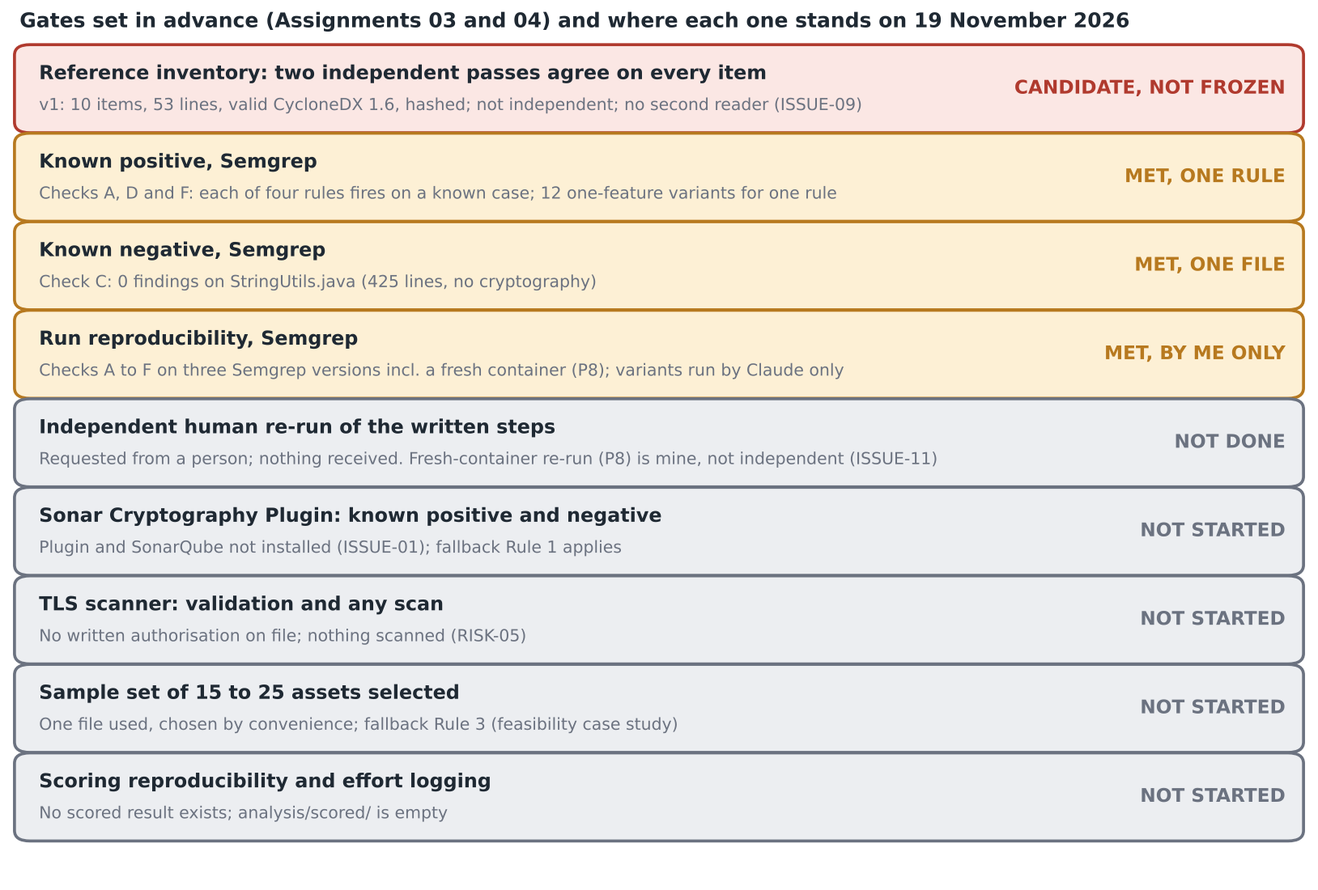
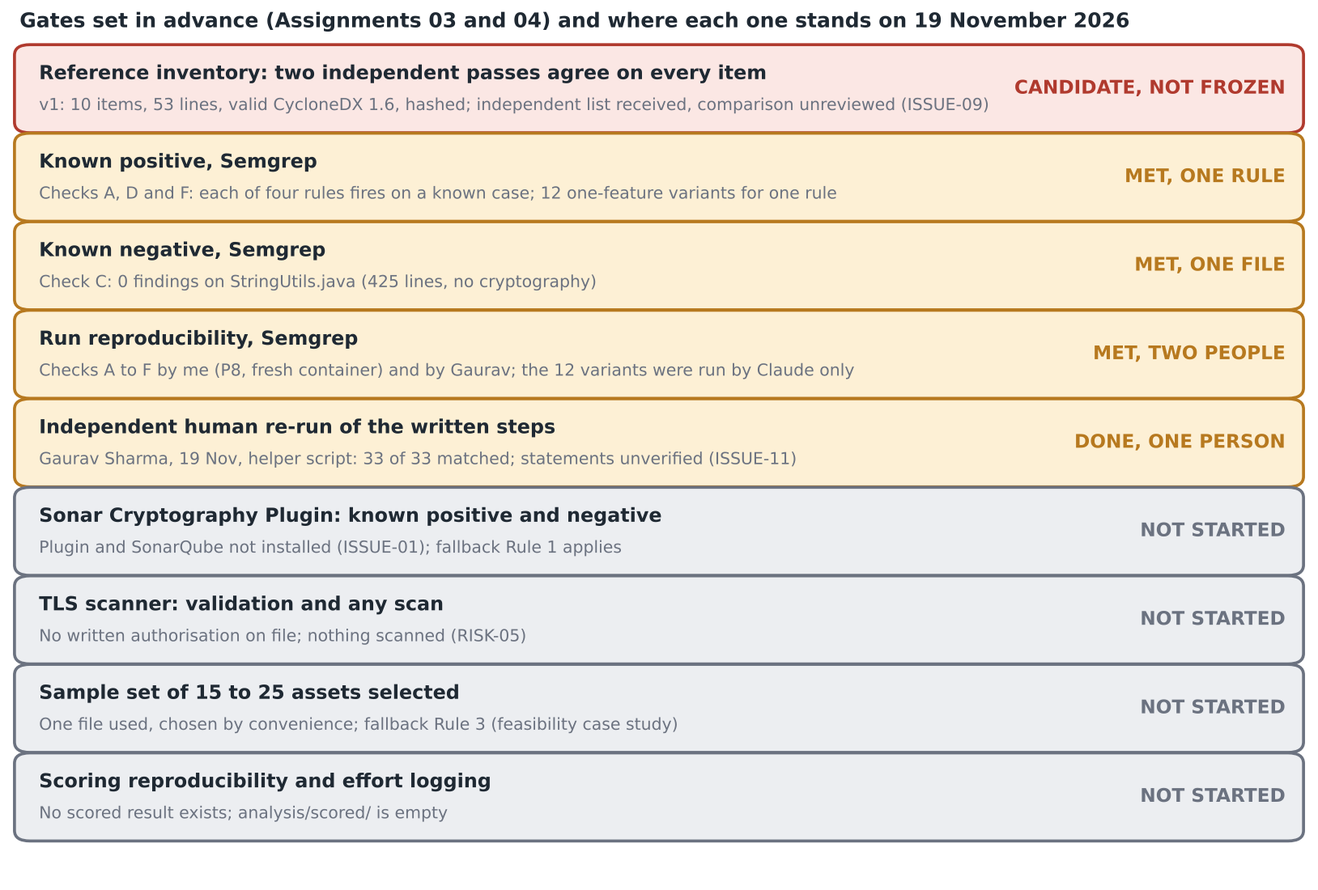
Assignment 12: reviewer run reflected in issue log, register, freeze record, gate figure, note, outline and script
Claude-Session: https://claude.ai/code/session_01UCMwYboPFy5TRtJRC9YzTZ

Changed region(s): [[0.0, 0.4018, 1.0, 0.5564], [0.3686, 0.0927, 0.7371, 0.1236], [0.8292, 0.3709, 0.9828, 0.4018]]

diff --git a/analysis/results/figures_a12_source.py b/analysis/results/figures_a12_source.py
@@ -21,15 +21,15 @@ def box(ax, x, y, w, h, text, kind, fs=7.6, bold=False):
 # ---------- Figure: gate status ----------
 gates = [
  ('Reference inventory: two independent passes agree on every item', 'not', 'CANDIDATE, NOT FROZEN',
-  'v1: 10 items, 53 lines, valid CycloneDX 1.6, hashed; not independent; no second reader (ISSUE-09)'),
+  'v1: 10 items, 53 lines, valid CycloneDX 1.6, hashed; independent list received, comparison unreviewed (ISSUE-09)'),
  ('Known positive, Semgrep', 'part', 'MET, ONE RULE',
   'Checks A, D and F: each of four rules fires on a known case; 12 one-feature variants for one rule'),
  ('Known negative, Semgrep', 'part', 'MET, ONE FILE',
   'Check C: 0 findings on StringUtils.java (425 lines, no cryptography)'),
- ('Run reproducibility, Semgrep', 'part', 'MET, BY ME ONLY',
-  'Checks A to F on three Semgrep versions incl. a fresh container (P8); variants run by Claude only'),
- ('Independent human re-run of the written steps', 'todo', 'NOT DONE',
-  'Requested from a person; nothing received. Fresh-container re-run (P8) is mine, not independent (ISSUE-11)'),
+ ('Run reproducibility, Semgrep', 'part', 'MET, TWO PEOPLE',
+  'Checks A to F by me (P8, fresh container) and by Gaurav; the 12 variants were run by Claude only'),
+ ('Independent human re-run of the written steps', 'part', 'DONE, ONE PERSON',
+  'Gaurav Sharma, 19 Nov, helper script: 33 of 33 matched; statements unverified (ISSUE-11)'),
  ('Sonar Cryptography Plugin: known positive and negative', 'todo', 'NOT STARTED',
   'Plugin and SonarQube not installed (ISSUE-01); fallback Rule 1 applies'),
  ('TLS scanner: validation and any scan', 'todo', 'NOT STARTED',

diff --git a/docs/RELEASE_MANIFEST.md b/docs/RELEASE_MANIFEST.md
@@ -70,7 +70,7 @@ Format of each line: path, SHA-256, role.
[1 lines of base64/hex data omitted]
   Claims register v3: statuses added, L2 corrected
 - `analysis/results/claims_register_2026-11-19.md`  
[2 lines of base64/hex data omitted]
   Claims register version 4 (K4 and K9 revised; K4 still provisional)
 - `analysis/results/figure_10_k4_variants_2026-11-19.png`  
[1 lines of base64/hex data omitted]
@@ -97,7 +97,7 @@ Format of each line: path, SHA-256, role.
[1 lines of base64/hex data omitted]
   Figure: how the zero on Md5Crypt.java is classified (K8, K9)
 - `analysis/results/figure_7_gate_status_2026-11-19.png`  
[2 lines of base64/hex data omitted]
   Figure 1 of the Assignment 12 thesis (gate status); drawn by Claude
 - `analysis/results/figure_8_claim_record_map_2026-11-19.png`  
[1 lines of base64/hex data omitted]
@@ -106,7 +106,7 @@ Format of each line: path, SHA-256, role.
[1 lines of base64/hex data omitted]
   Figure 2 of the Assignment 12 thesis (classification of the zero); drawn by Claude
 - `analysis/results/figures_a12_source.py`  
[2 lines of base64/hex data omitted]
   Script that draws figures 1, 2, 4 and 5 of the Assignment 12 thesis; written by Claude
 - `analysis/results/figures_thesis_source.py`  
[1 lines of base64/hex data omitted]
@@ -211,7 +211,7 @@ Format of each line: path, SHA-256, role.
[1 lines of base64/hex data omitted]
   Synthetic 14-line control (written by Claude); not a sample
 - `docs/AI_VALIDATION_LEDGER.md`  
[2 lines of base64/hex data omitted]
   What AI tools proposed, who checked it and how
 - `docs/AUDIT_RECORD_A10.md`  
[1 lines of base64/hex data omitted]
@@ -223,7 +223,7 @@ Format of each line: path, SHA-256, role.
[1 lines of base64/hex data omitted]
   Corrections with commit hashes; pointer to earlier text
 - `docs/CROSSCHECK_A12.md`  
[2 lines of base64/hex data omitted]
   Cross-check of numbers, claims and figures across thesis, deck and evidence (Claude, not yet repeated by me)
 - `docs/ENVIRONMENT.md`  
[1 lines of base64/hex data omitted]
@@ -232,16 +232,16 @@ Format of each line: path, SHA-256, role.
[1 lines of base64/hex data omitted]
   Record of the independent run and source pass: what was received, statements, discrepancies, status
 - `docs/INDEPENDENT_RUN_PACKAGE.md`  
[2 lines of base64/hex data omitted]
   Request text and record template for an independent human run (not yet done)
 - `docs/INDEPENDENT_SOURCE_PASS_PACKAGE.md`  
[2 lines of base64/hex data omitted]
   Request and record template for an independent source pass (not yet done)
 - `docs/INVENTORY_FREEZE_RECORD.md`  
[2 lines of base64/hex data omitted]
   Unit decision, candidate hash, why not frozen, what freezing requires
 - `docs/ISSUE_LOG.md`  
[2 lines of base64/hex data omitted]
   Issues and risks
 - `docs/K4_RULE_ANALYSIS_2026-11-19.md`  
[1 lines of base64/hex data omitted]
@@ -256,13 +256,13 @@ Format of each line: path, SHA-256, role.
[1 lines of base64/hex data omitted]
   Feedback item, change, location, unresolved issue
 - `docs/RESPONSE_NOTE_A12.md`  
[2 lines of base64/hex data omitted]
   Response and remaining-work note, text version
 - `docs/SOURCE_LEDGER.md`  
[1 lines of base64/hex data omitted]
   Source of every result, figure, label, interpretation and citation, with verification status
 - `docs/SPEAKING_OUTLINE_A12.md`  
[2 lines of base64/hex data omitted]
   Speaking outline for the deck
 - `docs/TAG_AND_MANIFEST.md`  
[1 lines of base64/hex data omitted]
@@ -271,7 +271,7 @@ Format of each line: path, SHA-256, role.
[1 lines of base64/hex data omitted]
   Literature claims linked to source, AI step and my verification (not yet done)
 - `docs/WALKTHROUGH_SCRIPT_A12.md`  
[2 lines of base64/hex data omitted]
   Script for the recorded walkthrough
 - `docs/independent_run/SOP_FRIEND.md`  
[1 lines of base64/hex data omitted]
@@ -304,7 +304,7 @@ Format of each line: path, SHA-256, role.
[1 lines of base64/hex data omitted]
   Dated working entry
 - `journal/2026-11-19.md`  
[2 lines of base64/hex data omitted]
   Dated journal entry for Assignment 12
 - `journal/README.md`  
[1 lines of base64/hex data omitted]

diff --git a/docs/RESPONSE_NOTE_A12.md b/docs/RESPONSE_NOTE_A12.md
@@ -10,23 +10,23 @@ A near-final thesis, a research deck with speaking outline, a final-evidence app
 
 Full entries, with change, evidence location and what is unresolved, are in `docs/RESPONSE_LOG.md` (H1 to H5).
 
-- **H1, reference inventory: partly completed.** I decided that the operation is the primary unit. The 53 agreed lines are now a 10-item candidate inventory with asset or operation, algorithm, file, lines and a reason for each item; it validates against CycloneDX 1.6 (with a failing negative control) and is hashed (SHA-256 fa216520…f9cc). It is not frozen, because no independent person has read the source. Claude wrote the grouping and I have not yet reviewed it.
+- **H1, reference inventory: partly completed.** I decided that the operation is the primary unit. The 53 agreed lines are now a 10-item candidate inventory with asset or operation, algorithm, file, lines and a reason for each item; it validates against CycloneDX 1.6 (with a failing negative control) and is hashed (SHA-256 fa216520…f9cc). It is not frozen. The same helper wrote an independent list of operations from the source (`data/reference_inventory/independent_pass_REVIEWER_2026-11-19.txt`); a draft comparison by operation shows most items agree and that his list has wrapper-level salt and prefix operations the candidate lacks. His line numbers do not match the pinned file. Claude wrote the grouping and the draft comparison; I have not yet reviewed either.
 - **H2, zero findings: partly completed.** The pinned rule was read and its matching conditions written down. Twelve one-feature variants, with expected outcomes committed first, were run once: 12 of 12 matched the prediction, including the unprefixed call (V02) and a fully qualified receiver (V03). K4 now has three separate conclusions in the register and thesis and stays provisional. Claude wrote and ran this; I still need to read the rule myself and re-run the variants.
-- **H3, independent reproducibility: pending.** My Docker re-run is described as repeatability, as you said. A person has agreed to follow `docs/REPRODUCE.md`; I am sending the package this week. The original transcript of my 14 November run will be attached.
+- **H3, independent reproducibility: done by one person, with limits.** On 19 November Gaurav Sharma ran checks A to F in an Ubuntu container (Semgrep 1.186.0) and all 33 comparisons matched the expected values (`analysis/raw/semgrep_checks_A_to_F_REVIEWER_2026-11-19.txt`). Limits: he used a helper script that wraps the commands in `docs/REPRODUCE.md`; his statements that he used no AI tool and had no help are relayed by me and unverified; and his run output is time-stamped three minutes before the reported end of his source pass. My own Docker re-run is still described as repeatability. The original transcript of my 14 November run is to be attached.
 - **H4, align findings with contribution: completed for the framing.** The question, contribution and conclusion are narrowed to a Semgrep feasibility study. The thesis states how true positives, false positives, false negatives and effort by phase would be counted once an inventory is frozen, and that undefined measures would be “not estimable”. No such figure is calculated. Sonar and TLS were not started and I did not invent results.
 - **H5, human verification of AI-supported material: pending.** The verification matrix links each literature claim to its source, the AI step and my check. Every source is still marked † or ‡; I have not read them.
 
 ## Changes in this version
 
-Chapter 1 (framing), §3.3 (unit, candidate, schema, freeze rule), §3.4 to §3.6 (new runs, register 4), §4.3 (twelve variants, three conclusions), §4.4, §5.2, §6 and §7.3 (dated work), the abstract, Appendix A (stable evidence identifiers) and Appendix B (AI log). Only K4 and K9 and limits L2, L4, L5, L8 and L9 changed in the register. Results audited again: the twelve variants and the inventory; earlier results were not re-audited.
+Chapter 1 (framing), §3.3 (unit, candidate, schema, freeze rule), §3.4 to §3.6 (new runs, register 4), §4.3 (twelve variants, three conclusions), §4.4, §5.2, §6 and §7.3 (dated work), the abstract, Appendix A (stable evidence identifiers) and Appendix B (AI log). Only K4 and K9 and limits L2, L4, L5, L8 and L9 changed in the register. Results audited again: the twelve variants, the inventory and the reviewer run; earlier results were not re-audited.
 
 ## Remaining work, with dates
 
-- **20 November:** read the rule file and re-run the twelve variants in my container; file the output as a `PERSONAL` record; update K4. Email you about the unit, the freeze and the framing. Send the independent-run and source-pass packages.
-- **21 November:** review the 10 inventory items; read Näther and Hirsch, Ami et al. (confirm year, authors, DOI) and Amann et al.
-- **22 November:** collect the independent run and source pass if they arrive; compare them item by item; only then freeze and hash the inventory.
+- **20 November:** read the rule file and re-run the twelve variants in my container; file the output as a `PERSONAL` record; update K4. Email you about the unit, the freeze and the framing. Ask Gaurav for the placeholder initials and the hesitation notes he did not send.
+- **21 November:** review the 10 inventory items and the draft comparison with the independent list; decide whether wrapper-level salt and prefix operations belong in the inventory; read Näther and Hirsch, Ami et al. (confirm year, authors, DOI) and Amann et al.
+- **22 November:** if the candidate changes, validate it again; then freeze and hash the inventory.
 - **Not started:** Sonar plugin, TLS scanner, sample set, scoring. If the feasibility framing is not accepted, each needs its own plan.
 
 ## Unresolved issue
 
-Independence. Everything run so far was run by me or by Claude, and the inventory is not independent. The thesis says so wherever a claim depends on it.
+Independence is limited. One person other than me has now reproduced checks A to F and written an independent list of operations, but his statements are relayed and unverified, his line numbers do not match the file, and the variants and the inventory grouping were written and run by Claude. The thesis says so wherever a claim depends on it.

diff --git a/docs/ISSUE_LOG.md b/docs/ISSUE_LOG.md
@@ -14,10 +14,11 @@ CryptoBench issue and risk log. Updated 22 October 2026 (Hard Stop 3, thesis ver
 - ISSUE-08 (new, 22 October), positive control of the wrong code shape. The control passes on the chained MD5 form and Md5Crypt.java uses the variable form, so a passing control did not warn about the miss. Severity: medium to high. State: closed for the pilot file on 4 November 2026, with the limits in the claims register. A same-shape control (`data/test_material/same_shape_control/`) was run by Claude (R3, `analysis/raw/semgrep_samshape_control_REFERENCE_2026-11-04.txt`): the rule finds the chained form (line 6) and not the variable form (lines 10-12). That explains the zero for this one rule. I repeated the control on my MacBook (P6, Semgrep 1.99.0) with the same result. On the same day I ran the other three rules one at a time (P7): each fires on its own test file and finds nothing in Md5Crypt.java, which has no call they target. Still open: other forms of those calls were not tested, and the control is one pair of shapes. Protocol change 2 still applies.
 - ISSUE-09 (new, 22 October), reference list not independent. Severity: high. State: narrowed on 4 November 2026, not closed. Pass 1 (31 October) was not independent of the list Claude drafted. Pass 2 (4 November, after reading the numbered file, with help listed in `own_pass_agreed.md`) and an agreed list of 53 lines exist (`data/reference_inventory/own_pass/`); the comparison with the provisional list is in `own_pass_vs_claude.md`. The passes disagreed on 39 lines and the agreed list applies my three rules to those lines, so it is not the full agreement of two independent passes that the freeze rule asks for. Closed only if Dr. Shaalan accepts the reconciled list as frozen, or after a further independent pass.
 - ISSUE-10 (new, 22 October), hand-editing of the inventory template failed twice before passing (test case 2). Severity: low to medium. State: mitigated by protocol change 5. Not checked against the CycloneDX schema, so not fully closed.
-- ISSUE-11 (new, 14 November), no independent human run of the reproduction steps. Severity: medium to high. State: open. Only a fresh AI agent (low independence), my own self-checks and, since 14 November, my own fresh-environment re-run in Docker (P8, `analysis/raw/semgrep_checks_A_to_F_PERSONAL_FRESHENV_2026-11-14.txt`; all results matched, Semgrep 1.185.0) exist. P8 is not independent (same person, commands written by Claude) and does not close the issue. Request and record template: `docs/INDEPENDENT_RUN_PACKAGE.md`. Closed only when a person other than me has run the steps and the unedited record is in `analysis/raw/`.
+- ISSUE-11 (new, 14 November), independent human run of the reproduction steps. Severity: medium. State: update 19 November evening: a person other than me (Gaurav Sharma) ran checks A to F with the helper script; all 33 comparisons matched (`analysis/raw/semgrep_checks_A_to_F_REVIEWER_2026-11-19.txt`, notes in `docs/INDEPENDENT_REVIEW_RECORD_2026-11-19.md`). Limits: a wrapper script was used, not the document by hand; the runner field was a placeholder; his statements (no AI, no help) are relayed by me and unverified; the run output is time-stamped three minutes before the reported end of his source pass. Earlier state, kept for the record: open. Only a fresh AI agent (low independence), my own self-checks and, since 14 November, my own fresh-environment re-run in Docker (P8, `analysis/raw/semgrep_checks_A_to_F_PERSONAL_FRESHENV_2026-11-14.txt`; all results matched, Semgrep 1.185.0) exist. P8 is not independent (same person, commands written by Claude) and does not close the issue. Request and record template: `docs/INDEPENDENT_RUN_PACKAGE.md`. Closed only when a person other than me has run the steps and the unedited record is in `analysis/raw/`.
 - ISSUE-12 (new, 14 November), citations not yet read by me. Severity: medium. State: partly mitigated. Claude checked every citation used in the thesis draft against source pages (`docs/CITATION_CHECK_2026-11-14.md`) and four statements in my earlier work could not be confirmed and are not used. I have not opened the papers. The year, authors and DOI of Ami et al. (TOPS) are unconfirmed.
 - ISSUE-13 (new, 14 November), branch tip drifted from the tagged manifest. Severity: medium. State: closed on 14 November. Nine files edited after `a10-rc6` were restored to the tagged text; rules for the tag and manifest relationship are in `docs/TAG_AND_MANIFEST.md`.
 - ISSUE-14 (new, 19 November), the K4 rule analysis and variant results are not yet checked by me. Severity: medium. State: open. Claude analysed the rule and ran twelve variants (R4); I have not read the rule file or re-run the variants (`docs/K4_RULE_ANALYSIS_2026-11-19.md`, checklist). K4 stays provisional until I do. Closed when my own reading and my own `PERSONAL` re-run are on record.
+- ISSUE-09 update (19 November evening): an independent source-pass list was received (Gaurav Sharma, `data/reference_inventory/independent_pass_REVIEWER_2026-11-19.txt`); his line numbers do not match the pinned file; a draft comparison by operation exists (`independent_pass_comparison_2026-11-19.md`) and I have not reviewed it. The wrapper-level salt and prefix operations in his list are not in the candidate; I must decide the scope. ISSUE-09 stays narrowed, not closed.
 - ISSUE-09 update (19 November): unit of measurement decided (operation primary, lines supporting). A 10-item candidate inventory exists, validated against CycloneDX 1.6 and hashed, but it is not frozen, not independent, and its grouping is not yet reviewed by me (`docs/INVENTORY_FREEZE_RECORD.md`). ISSUE-09 stays narrowed, not closed; it closes when an independent source pass is compared and the final file is hashed.
 
 ## Risks carried forward

diff --git a/docs/WALKTHROUGH_SCRIPT_A12.md b/docs/WALKTHROUGH_SCRIPT_A12.md
@@ -4,7 +4,7 @@ Target length 8 minutes (suggested range 6 to 10). Read in your own words. Scree
 
 **0:00 to 0:45. What this package is.** “This is Assignment 12 for CryptoBench. It is a feasibility pilot. Only Semgrep ran, on one file. The comparison with the Sonar plugin and a TLS scanner has not been run, and the thesis says that in the abstract.” Show the title page and abstract.
 
-**0:45 to 2:15. What changed since the Assignment 11 feedback.** Open `docs/RESPONSE_LOG.md` entries H1 to H5. “Dr. Shaalan gave five priorities. For each I record the change, where the evidence is and what is unresolved.” Say the dispositions: H1 partly completed, the inventory is a candidate and not frozen; H2 partly completed, K4 stays provisional; H3, the independent run is pending; H4, the framing is narrowed, subject to his agreement; H5, my reading of the sources is pending.
+**0:45 to 2:15. What changed since the Assignment 11 feedback.** Open `docs/RESPONSE_LOG.md` entries H1 to H5. “Dr. Shaalan gave five priorities. For each I record the change, where the evidence is and what is unresolved.” Say the dispositions: H1 partly completed, the inventory is a candidate and not frozen; H2 partly completed, K4 stays provisional; H3, one person other than me reproduced checks A to F (33 of 33 matched), with limits I will name; H4, the framing is narrowed, subject to his agreement; H5, my reading of the sources is pending.
 
 **2:15 to 4:15. Claim to thesis to evidence.** Take K4. Open thesis §4.3, then Figure 3, then evidence EV-17 (raw output) and EV-19 (expected outcomes committed before the run, commit 45f6180). “Twelve variants, twelve outcomes as predicted. The rule needs the chained call; the Md5Crypt calls are stored in a variable.” Then name the three conclusions and say the third is not established because the inventory is not frozen. Open `docs/K4_RULE_ANALYSIS_2026-11-19.md` and say that Claude wrote it and ran the variants and that I have not yet read the rule or re-run them.
 
@@ -12,6 +12,8 @@ Target length 8 minutes (suggested range 6 to 10). Read in your own words. Scree
 
 **5:15 to 6:30. The deck narrative.** Show the deck slides 2 to 9 quickly, naming the problem, the gap, the questions, the method, the evidence and the contribution. Say that the deck makes no claim stronger than the thesis, and show `docs/CROSSCHECK_A12.md`.
 
-**6:30 to 7:30. Remaining work.** Read the list in the response note: my own reading of the rule and re-run of the variants (20 November), review of the grouping (21 November), the independent run and source pass (requested, due 22 November), reading the papers, agreeing the framing with Dr. Shaalan, freezing only after the independent pass.
+**6:30 to 7:30. Remaining work.** Read the list in the response note: my own reading of the rule and re-run of the variants (20 November), review of the grouping (21 November), the points to clear with Gaurav (placeholder initials, the order of his two parts, his missing hesitation notes), reading the papers, agreeing the framing with Dr. Shaalan, freezing only after the independent pass.
+
+****Add to 4:15 to 5:15 (the inventory).** “An independent list of operations came back from Gaurav. His operations mostly match the candidate items. His list has wrapper-level salt and prefix steps the candidate lacks, and his line numbers do not match the file, so I compare by operation only. I have not reviewed the draft comparison.” Open `data/reference_inventory/independent_pass_comparison_2026-11-19.md` and `docs/INDEPENDENT_REVIEW_RECORD_2026-11-19.md`.
 
 **7:30 to 8:00. AI.** “Claude drafted text and figures, wrote and ran the variants and grouped the inventory. I decided the unit, no freeze and the framing. Appendix B lists each step and what I have not yet verified.”

diff --git a/docs/SPEAKING_OUTLINE_A12.md b/docs/SPEAKING_OUTLINE_A12.md
@@ -7,11 +7,11 @@ Deck: eleven slides, about nine to ten minutes. The course presentation time was
 3. **Literature and gap (1:00).** Policy documents assert the need; the format exists; the two tool papers are preprints with their own benchmarks; a score depends on the counting unit. The gap is a comparison of free methods against one independent key. Sources not yet read by me.
 4. **Questions (0:45).** RQ1 answered for one file, RQ2 in part, RQ3 and RQ4 not answered. The feasibility framing awaits Dr. Shaalan’s agreement.
 5. **Method (1:00).** Designed for three tools, executed for one. Pinned inputs. Checks A to F. Twelve variants.
-6. **Evidence: the procedure repeats (1:00).** 1, 0, 0, 1 across checks A to D; four Semgrep versions; all runs by me or Claude; no independent run.
+6. **Evidence: the procedure repeats (1:00).** 1, 0, 0, 1 across checks A to D; four Semgrep versions; runs by me, by Claude, and by one other person (Gaurav, 19 November, helper script, 33 of 33 matched; his statements relayed, unverified).
 7. **Evidence: the zero (1:30).** Three conclusions. The rule needs the chained form; twelve variants agree. Conclusion 3 is not established. K4 stays provisional until I read the rule and re-run the variants.
-8. **Evidence: the inventory (1:00).** 60 and 73 lines, 39 disagreements, 53 agreed, 10 operation items, valid CycloneDX 1.6, hashed, not frozen, grouping not yet reviewed by me.
+8. **Evidence: the inventory (1:00).** 60 and 73 lines, 39 disagreements, 53 agreed, 10 operation items, valid CycloneDX 1.6, hashed, not frozen. An independent list of operations has arrived; the draft comparison is not yet reviewed by me, and the helper’s line numbers do not match the file.
 9. **Contribution (0:45).** A bounded method: the three-way reading, shape-matched controls, the unit effect, and the trail from claim to record.
-10. **Limits and remaining work (0:45).** One file, four rules, no independent run, Sonar and TLS not started; dated next steps.
+10. **Limits and remaining work (0:45).** One file, four rules, one independent helper with unverified statements, Sonar and TLS not started; dated next steps.
 11. **AI use (0:30).** What Claude did, what I decided, what I have not yet checked.
 
 Likely questions and honest answers: *Why not run Sonar or TLS?* Not installed, no authorised target. *Is K4 established?* No, provisional. *Why the operation as unit?* The feedback pointed to assets or operations, and a line unit is not comparable with asset-level tools; the choice is unconfirmed. *Who ran the variants?* Claude; I will re-run them.

diff --git a/docs/CROSSCHECK_A12.md b/docs/CROSSCHECK_A12.md
@@ -4,7 +4,7 @@ Date: 19 November 2026. Compared: the Assignment 12 thesis (near-final draft), t
 
 ## How evidence is identified
 
-Appendix A of the thesis gives every evidence file a stable identifier, EV-01 to EV-47. The deck and the response note use the same identifiers. An identifier names a file path in this repository, and the path does not change between versions. A file that changes content keeps its identifier and gets a new commit hash. The file list is fixed at the Assignment 12 record commit given in the thesis.
+Appendix A of the thesis gives every evidence file a stable identifier, EV-01 to EV-51. The deck and the response note use the same identifiers. An identifier names a file path in this repository, and the path does not change between versions. A file that changes content keeps its identifier and gets a new commit hash. The file list is fixed at the Assignment 12 record commit given in the thesis.
 
 ## Numbers and facts
 
@@ -15,6 +15,12 @@ Appendix A of the thesis gives every evidence file a stable identifier, EV-01 to
 - **Pinned inputs.** semgrep-rules commit 17e31e11…, commons-codec commit f13dd50f…, Md5Crypt.java 361 lines with SHA-256 fa779456…, StringUtils.java 425 lines. Thesis §3.4, deck slide 4, `docs/ENVIRONMENT.md`. Matches.
 - **Semgrep versions.** 1.99.0 (laptop), 1.181.0 (cloud container), 1.185.0 (my fresh container, 14 November), 1.186.0 (variants, 19 November). Thesis §3.4, deck slide 5. Matches.
 - **Literature numbers** (Crypsy F1 0.75, 0.86, 0.95; Cryptoscope 92% and 11 of 15). Thesis §2.3 and §2.4, deck slide 3. These match what Claude recorded in `docs/CITATION_CHECK_2026-11-14.md`. I have not read the papers, so this is consistency only, not verification (marks † and ‡).
+
+## Added after Gaurav’s run (19 November evening)
+
+- His output (EV-48) was compared with the expected values in `docs/REPRODUCE.md`: rules commit, seven hashes, counts for checks A to F and `getInstance` 0. All agree, and the thesis (§3.6, §4.1), the note, the outline and the deck state the same count (33 of 33 matched). His run is described the same way everywhere: one person other than me, helper script, statements unverified.
+- His source-pass list (EV-49) is cited as received, compared in draft by operation (EV-51), not reviewed by me. No document says the inventory is frozen or independent.
+- Figure 1 (gate status) was redrawn: the independent re-run row now reads “DONE, ONE PERSON”.
 
 ## Claims and status
 

diff --git a/analysis/results/claims_register_2026-11-19.md b/analysis/results/claims_register_2026-11-19.md
@@ -170,3 +170,7 @@ Figure files: `analysis/results/figure_1_proof_map.png` (claims to records), `an
 ## Pinned inputs
 
 Md5Crypt.java: apache/commons-codec commit f13dd50f566c318283c4138820b15d75c26a0217, 361 lines, sha256 fa779456b25d2d36a6c464e200e106c2fa8e94a45dc608844ceb04407ea90747. StringUtils.java: same commit, 425 lines, sha256 6c44ebc7424c69fd04b6f3df10332934a149e6901fd29e86d96df4176527a99a. Rules: semgrep/semgrep-rules commit 17e31e11ebac99fb7dfe1cd288f7a32151b6f3f9. Rule fixture sha256 bd22fdb5ef195e383ec69aa9dbf1d0fd8f6cb5d41aef3f725f1aba5e5aa05908. Inventory template sha256 a851ef3d6547c6e75f728144f2e8b9575b0853f4e63a4f9b65c693ad89a2139d. Semgrep 1.181.0 (container, Ubuntu 24.04.5, Python 3.13.16); Semgrep 1.99.0 (MacBook, macOS 15.7.9, Python 3.8.2). Control file SameShapeControl.java sha256 657e8eb1ac803fecb27dcbe7808781c5fd315a4981c7f33424645d25ae7c8539. Rule yaml use-of-md5-digest-utils.yaml sha256 a0614baf029418dd9b298713c3328f371faa1edb0eac7cc2c4a3a99ce1a220a5 (computed in the container).
+
+## Update, 19 November 2026 evening (no claim wording changed)
+
+A person other than me (Gaurav Sharma) ran checks A to F with the helper script on Semgrep 1.186.0 in an Ubuntu container; all 33 comparisons matched (`analysis/raw/semgrep_checks_A_to_F_REVIEWER_2026-11-19.txt`). This adds a second person to the reproduction of K1 and K3 to K9, with these limits: a wrapper script was used; his statements about no AI use and no help are relayed and unverified; the run was time-stamped before the end of his source pass. Limit L4 (no independent run) is narrowed accordingly. His independent source-pass list does not change K4's third conclusion: the inventory is still not frozen. Details: `docs/INDEPENDENT_REVIEW_RECORD_2026-11-19.md`.

diff --git a/docs/INDEPENDENT_RUN_PACKAGE.md b/docs/INDEPENDENT_RUN_PACKAGE.md
@@ -1,6 +1,6 @@
 # INDEPENDENT_RUN_PACKAGE.md
 
-Request and record template for an independent human run of `docs/REPRODUCE.md`. Prepared 14 November 2026. **No independent human run has been done as of this date.** **Update, 14 November, evening:** I repeated checks A to F myself in a fresh Docker container (`analysis/raw/semgrep_checks_A_to_F_PERSONAL_FRESHENV_2026-11-14.txt`). That is an author re-run, not an independent run; this package is still needed. This file exists so that the run can be done and recorded when a person is available; it is not a record of one.
+Request and record template for an independent human run of `docs/REPRODUCE.md`. Prepared 14 November 2026. **No independent human run had been done as of this date. Update 19 November evening: one was received; see `docs/INDEPENDENT_REVIEW_RECORD_2026-11-19.md`.** **Update, 14 November, evening:** I repeated checks A to F myself in a fresh Docker container (`analysis/raw/semgrep_checks_A_to_F_PERSONAL_FRESHENV_2026-11-14.txt`). That is an author re-run, not an independent run; this package is still needed. This file exists so that the run can be done and recorded when a person is available; it is not a record of one.
 
 ## Who can run it
 

diff --git a/docs/AI_VALIDATION_LEDGER.md b/docs/AI_VALIDATION_LEDGER.md
@@ -78,3 +78,8 @@ I will re-read the rule YAML against lines 15 and 259 (item 2), open the cited p
 - **AI step.** Claude drafted the revised thesis text, the deck and its speaker notes, the response note, the speaking outline, the walkthrough script, the cross-check record and figure 10.
 - **Claim or item affected.** Every number and claim in them comes from the claims register version 4 and the raw records; none is new evidence apart from the items in §9c.
 - **Student verification.** Not yet done. I will read each file before submitting and repeat the cross-check in `docs/CROSSCHECK_A12.md` on the final files. Until then the verification status of these files is “AI-checked only”.
+
+## 9e. Independent records and draft comparison (19 November 2026 evening)
+
+- **AI step.** Claude filed the helper’s run output and source-pass list unedited, wrote the review record, and drafted a comparison by operation with the candidate inventory.
+- **Student verification.** Not yet done: I have not reviewed the comparison. The helper’s statements about no AI use and no help were relayed to Claude by me and have not been verified by anyone else.

diff --git a/journal/2026-11-19.md b/journal/2026-11-19.md
@@ -11,3 +11,7 @@
 ## Later on 19 November: thesis, deck, note, cross-check
 
 Claude revised the thesis sources (framing, K4 variants, candidate inventory, evidence IDs EV-01 to EV-47, AI log), published an 11-slide deck with speaker notes as a Claude artifact, drew `figure_10_k4_variants_2026-11-19.png`, and wrote `docs/RESPONSE_NOTE_A12.md`, `docs/CROSSCHECK_A12.md`, `docs/SPEAKING_OUTLINE_A12.md` and `docs/WALKTHROUGH_SCRIPT_A12.md`. I have not read any of these yet. The deck lives in Claude's artifact store, not in this repository; `docs/SPEAKING_OUTLINE_A12.md` holds its content in text.
+
+## Evening: Gaurav’s run and source pass
+
+Gaurav Sharma sent his Part 1 list, the run output and an annotated copy of the Java file at about 18:32. I filed them as REVIEWER records with the points that need care (see `docs/INDEPENDENT_REVIEW_RECORD_2026-11-19.md`). I have not yet reviewed the draft comparison.

diff --git a/docs/INVENTORY_FREEZE_RECORD.md b/docs/INVENTORY_FREEZE_RECORD.md
@@ -47,3 +47,7 @@ No recall or precision is calculated from this inventory before step 5. If step 
 - CB-INV-10 zeroising of secret bytes (6 lines).
 
 Only the three creation lines 259, 275 and 312 are the target of the Semgrep MD5 rules. The other items show how much of the file's cryptographic behaviour a call-pattern rule does not address by design; they are not misses by Semgrep.
+
+## Update, 19 November 2026 evening
+
+An independent source-pass list (Gaurav Sharma) was received and compared by operation in draft (`data/reference_inventory/independent_pass_comparison_2026-11-19.md`). I have not reviewed the comparison. The candidate is unchanged and its hash is unchanged. It is still not frozen: I must review the comparison, decide whether wrapper-level salt and prefix operations belong in the inventory, validate again if the file changes, and write the final hash here.
